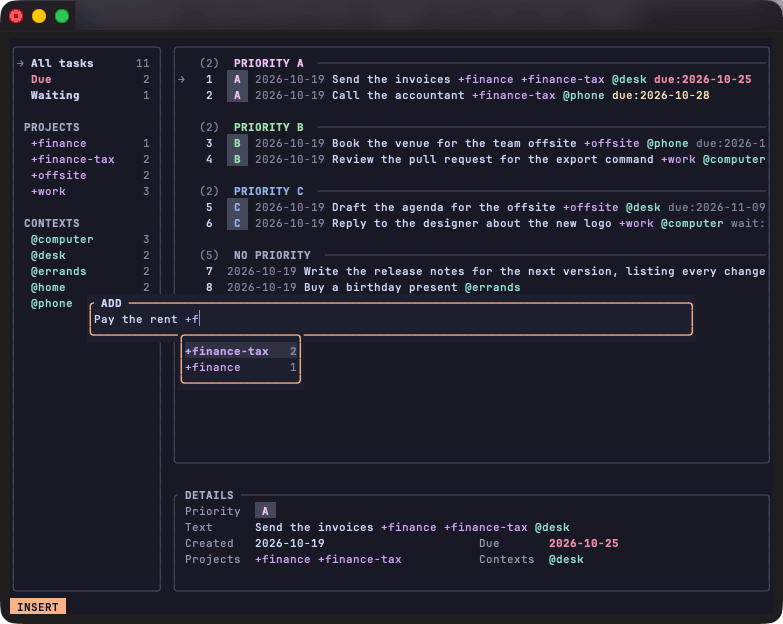
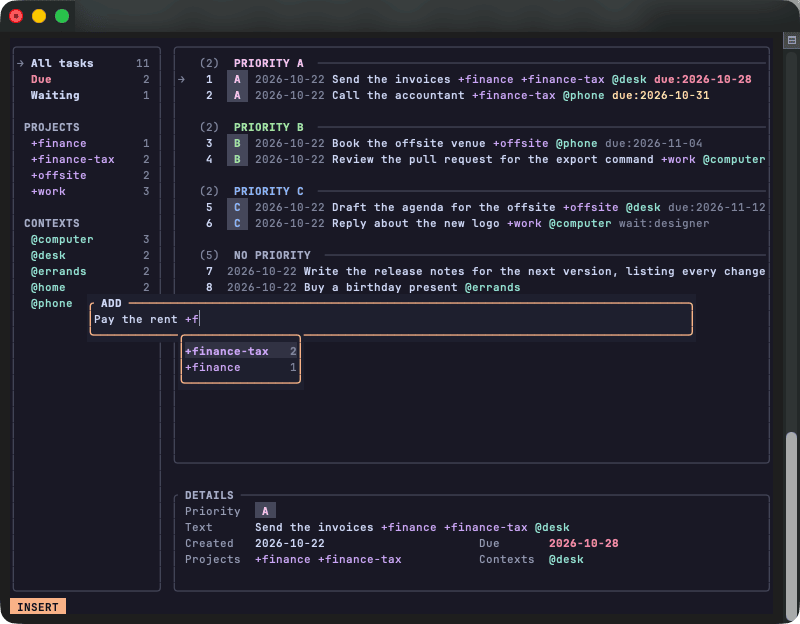
docs(images): shorten two demo tasks, retake seven screenshots and fix their alt texts

diff --git a/docs/popup.md b/docs/popup.md
@@ -100,7 +100,7 @@ A done line is left alone.
 
 ### Pending keys
 
-![The popup in normal mode with a pending ci shown at the right of the status bar, left of the help hint](images/pending-keys.png)
+![The edit popup of task 1 in normal mode with a pending ci shown at the right of the status bar, left of the help hint](images/pending-keys.png)
 
 After `f` `F` `t` `T`, a key that is not a character cancels the search without keeping it.
 `Esc` then leaves the popup open, and `Enter` does not save.
@@ -121,7 +121,7 @@ Only the task file is counted, and a name found in `done.txt` alone comes last, 
 
 ### Date picker
 
-![The popup adding a task, with the calendar of October 2026 under due:, the picked day in peach and today in yellow](images/calendar.png)
+![The popup adding a task, with the calendar of October 2026 under due:, the 31st, today, picked in peach](images/calendar.png)
 
 When a key leaves `due:` alone before the cursor, typed or with its value erased, a calendar of the month drops down under it.
 Weeks start on Monday, and the calendar opens on today: the picked date peach, today yellow, past days greyed.

diff --git a/docs/interactive-list.md b/docs/interactive-list.md
@@ -71,7 +71,7 @@ A done task still in the task file, one typed by hand, is not listed: `todo arch
 
 ### Help
 
-![The key help over the list: the keys of the list, the filter panel, the popup's insert and normal modes, and the calendar](images/help.png)
+![The key help over the list: the keys of the list, the filter panel, the search, the popup's insert and normal modes, and the calendar](images/help.png)
 
 `?` shows every key, grouped by mode, each mode's name in a block like the status bar's.
 The mode you opened it from is in peach, the others greyed.
